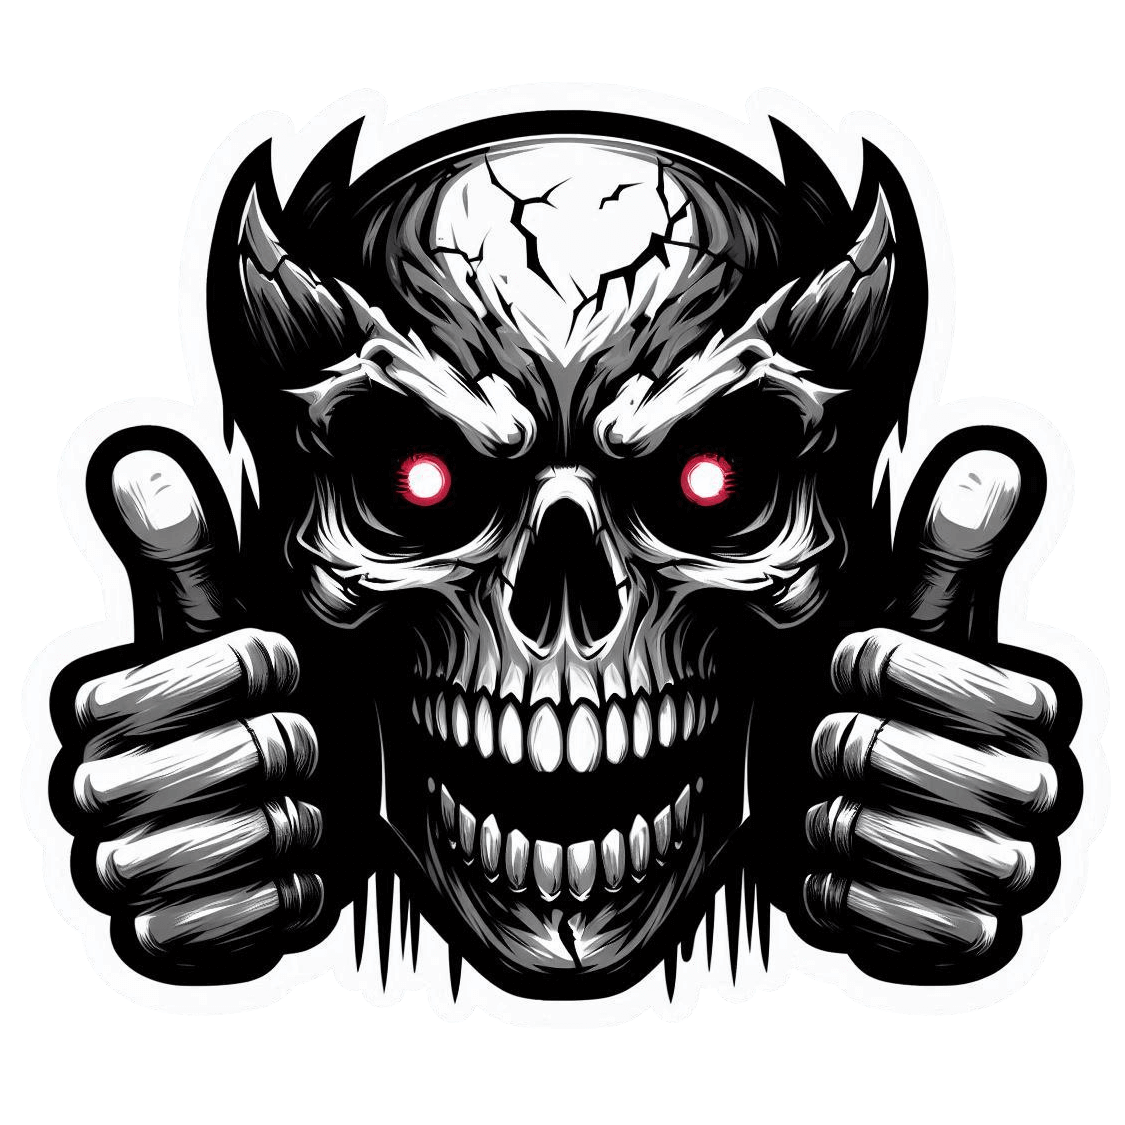
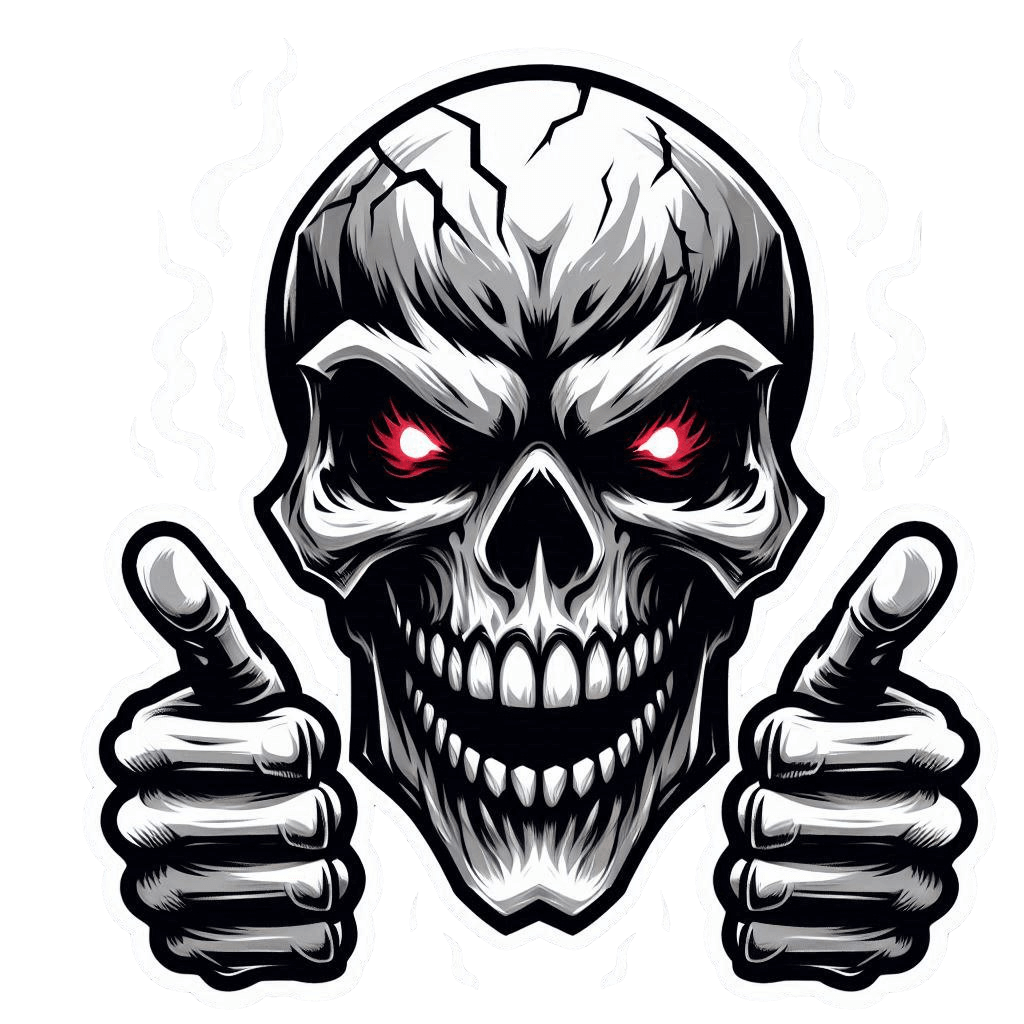
init

diff --git a/preview/PROMPT.md b/preview/PROMPT.md
@@ -3,7 +3,7 @@ https://t.me/neuralforum/7333097
 # Icon
 
 ```
-/i Dark aggressive icon: a sharp-edged skull with hollow eyes and nose, giving two thumbs up. Angular, menacing features, cracked bone texture, sharp teeth, grim expression. Eyes glow with eerie red light, faint smoke or haze rising. Bold black outlines, high contrast, subtle gray shading for depth. Aggressive, cursed vibe, not cartoonish. Black background with thick white outline around the whole design, strong sticker/icon style. Optimized for small-scale use, dark gothic energy.
+/i -s Dark aggressive icon: a sharp-edged skull with hollow eyes and nose, giving two thumbs up. Angular, menacing features, cracked bone texture, sharp teeth, grim expression. Eyes glow with eerie red light, faint smoke or haze rising. Bold black outlines, high contrast, subtle gray shading for depth. Aggressive, cursed vibe, not cartoonish. Black background with thick white outline around the whole design, strong sticker/icon style. Optimized for small-scale use, dark gothic energy.
 ```
 
 # Logo
